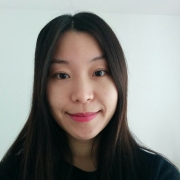
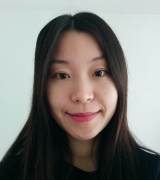
림 사진 추가

diff --git a/pages/profile.js b/pages/profile.js
@@ -3,13 +3,13 @@ import classNames from "classnames";
 // @material-ui/core components
 import { makeStyles } from "@material-ui/core/styles";
 // core components
-import Header from "/components/Header/Header.js";
-import Footer from "/components/Footer/Footer.js";
-import GridContainer from "/components/Grid/GridContainer.js";
-import GridItem from "/components/Grid/GridItem.js";
-import HeaderLinks from "/components/Header/HeaderLinks.js";
+import Header from "../components/Header/Header.js"; // ✅ 상대경로
+import Footer from "../components/Footer/Footer.js";
+import GridContainer from "../components/Grid/GridContainer.js";
+import GridItem from "../components/Grid/GridItem.js";
+import HeaderLinks from "../components/Header/HeaderLinks.js";
 
-import styles from "/styles/jss/nextjs-material-kit/pages/profilePage.js";
+import styles from "../styles/jss/nextjs-material-kit/pages/profilePage.js";
 
 const useStyles = makeStyles(styles);
 
@@ -123,11 +123,18 @@ export default function ProfilePage(props) {
                   <h4 className={classes.titleSub}>RCM Registered Teacher</h4>
                 </div>
               </div>
-              <img
-                alt="Lym - West Hillhurst Violin and Piano"
-                src="./img/Lym.jpg"
-                className={classes.teacherPhotoResponsive}
-              />
+              <div className={classes.photoRow}>
+                <img
+                  alt="Lym - West Hillhurst Violin and Piano"
+                  src="./img/Lym.jpg"
+                  className={classes.photoRowItem}
+                />
+                <img
+                  alt="Lym 2 - West Hillhurst Violin and Piano"
+                  src="./img/LymLee.jpg"
+                  className={classes.photoRowItem}
+                />
+              </div>
             </GridItem>
           </GridContainer>
           <div className={classes.description}>

diff --git a/styles/jss/nextjs-material-kit/pages/profilePage.js b/styles/jss/nextjs-material-kit/pages/profilePage.js
@@ -116,13 +116,14 @@ const profilePageStyle = {
     marginBottom: "5px",
     fontWeight: "600",
   },
-  // Teacher photo style
+  // Single teacher photo
   teacherPhoto: {
     display: "block",
     margin: "0 auto",
     borderRadius: "16px",
     boxShadow: "0 8px 32px 0 rgba(0,0,0,0.18), 0 2px 12px 0 rgba(0,0,0,0.10)",
   },
+  // Responsive single teacher photo
   teacherPhotoResponsive: {
     display: "block",
     margin: "0 auto",
@@ -130,6 +131,35 @@ const profilePageStyle = {
     height: "auto",
     borderRadius: "16px",
     boxShadow: "0 8px 32px 0 rgba(0,0,0,0.18), 0 2px 12px 0 rgba(0,0,0,0.10)",
+  },
+  // Row container for side-by-side photos
+  photoRow: {
+    display: "flex",
+    flexDirection: "row",
+    gap: "16px",
+    justifyContent: "center",
+    alignItems: "stretch", // flex-start → stretch 로 변경
+    width: "100%",
+    "@media (max-width: 600px)": {
+      flexDirection: "column", // 작은 화면에서 세로로
+      alignItems: "center",
+    },
+  },
+  // Each photo inside a row
+  photoRowItem: {
+    flex: "1 1 0",
+    width: "calc(50% + 100px)", // 50px 추가
+    maxWidth: "calc(50% + 100px)", // 50px 추가
+    height: "400px", // 고정 높이 추가
+    objectFit: "cover", // 비율 유지하며 잘라서 채움
+    borderRadius: "16px",
+    boxShadow: "0 8px 32px 0 rgba(0,0,0,0.18), 0 2px 12px 0 rgba(0,0,0,0.10)",
+    display: "block",
+    "@media (max-width: 600px)": {
+      width: "100%", // 작은 화면에서 전체 너비
+      maxWidth: "100%",
+      height: "300px", // 모바일 높이
+    },
   },
 };
 
